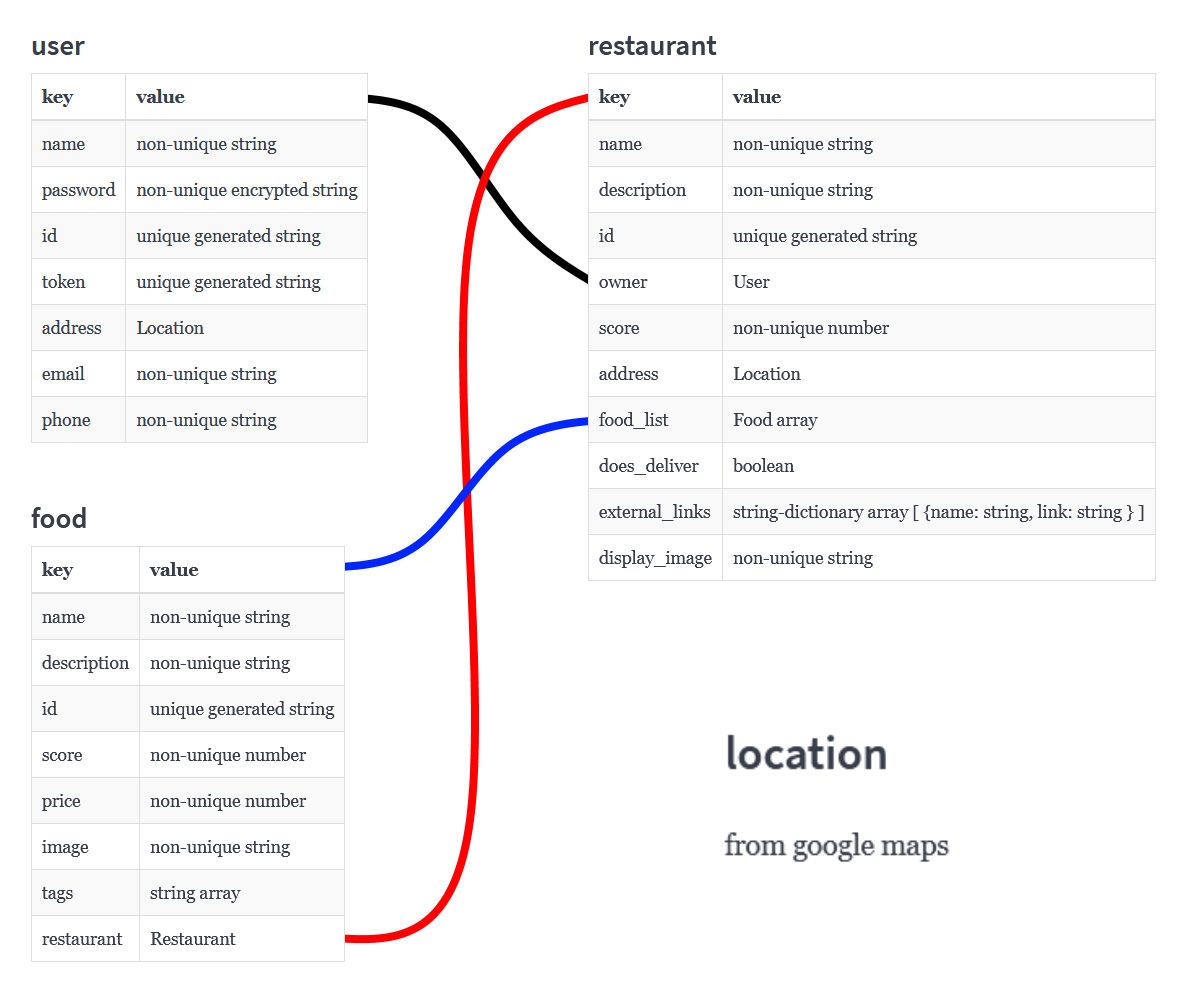
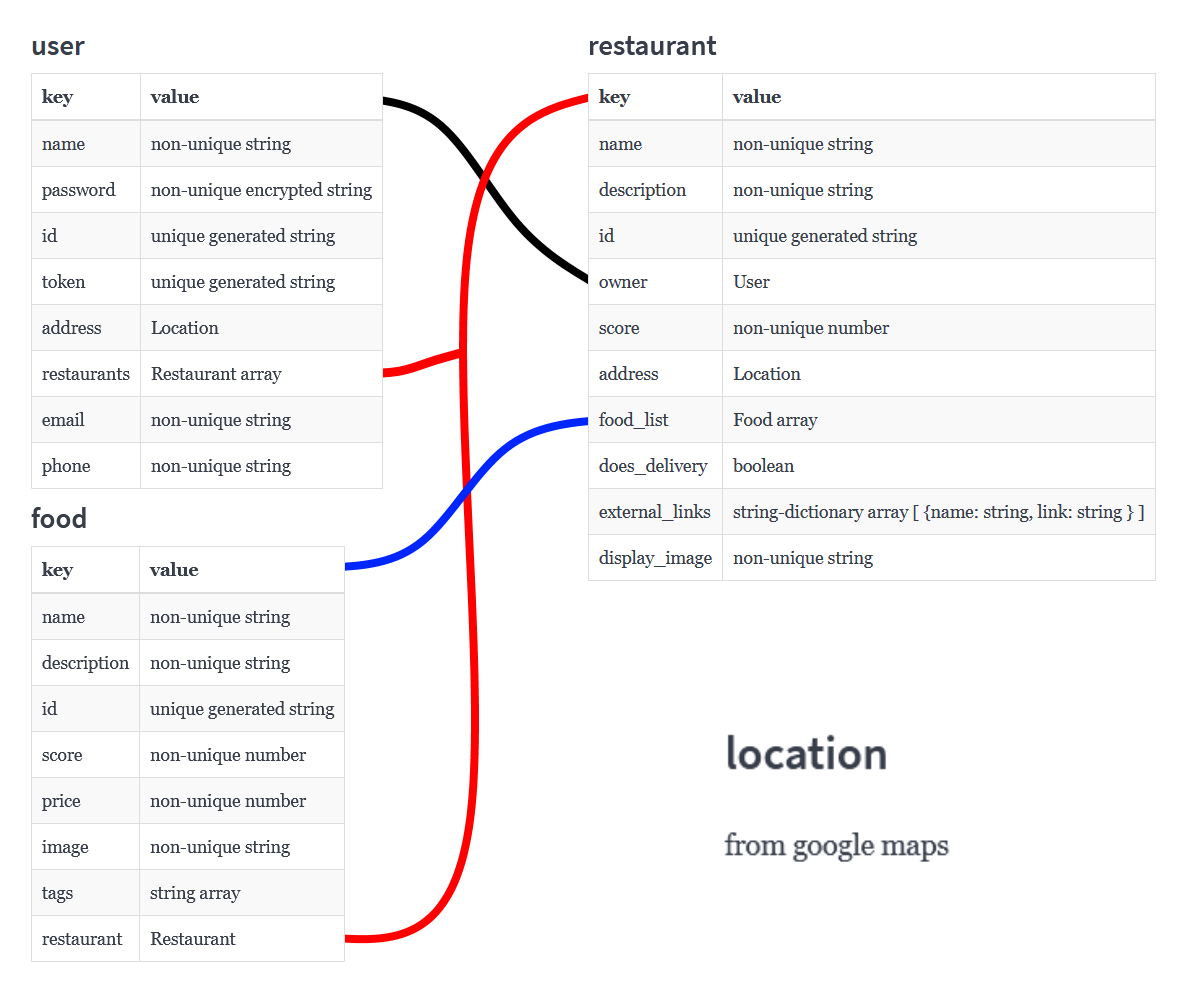
datamodel

diff --git a/concepts/datamodel.md b/concepts/datamodel.md
@@ -1,15 +1,16 @@
 # datamodel
 
 ### user
-key      | value
----------|-------
-name     | non-unique string
-password | non-unique encrypted string
-id       | unique generated string
-token    | unique generated string
-address  | Location
-email    | non-unique string
-phone    | non-unique string
+key         | value
+------------|-------
+name        | non-unique string
+password    | non-unique encrypted string
+id          | unique generated string
+token       | unique generated string
+address     | Location
+restaurants | Restaurant array
+email       | non-unique string
+phone       | non-unique string
 
 ### restaurant
 key            | value
@@ -21,21 +22,22 @@ owner          | User
 score          | non-unique number
 address        | Location
 food_list      | Food array
-does_deliver   | boolean
+does_delivery  | boolean
 external_links | string-dictionary array [ {name: string, link: string } ]
 display_image  | non-unique string
 
 ### food
-key             | value
-----------------|-------
-name            | non-unique string
-description     | non-unique string
-id              | unique generated string
-score           | non-unique number
-price           | non-unique number
-image           | non-unique string
-tags            | string array
-restaurant      | Restaurant
+key         | value
+------------|-------
+name        | non-unique string
+description | non-unique string
+id          | unique generated string
+score       | non-unique number
+price       | non-unique number
+image       | non-unique string
+tags        | string array
+restaurant  | Restaurant
 
 
 ### location
+derived from other api most likely google maps
